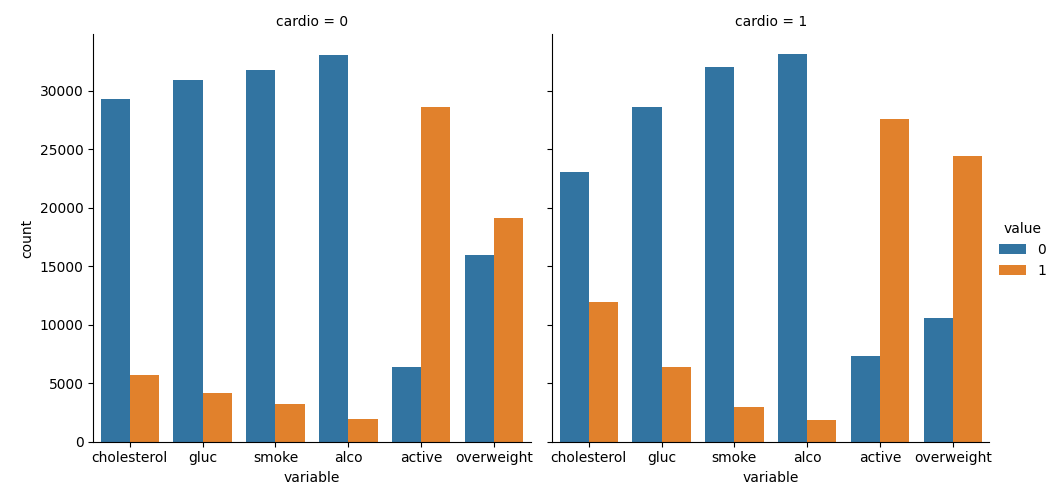
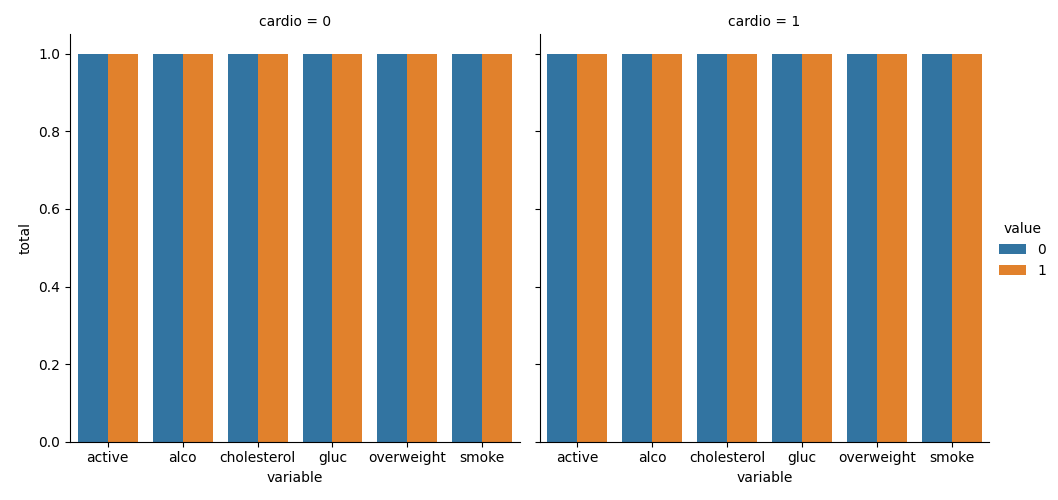
passed test for catplot

diff --git a/medical_data_visualizer.py b/medical_data_visualizer.py
@@ -28,11 +28,11 @@ def draw_cat_plot():
 
 
     # Group and reformat the data to split it by 'cardio'. Show the counts of each feature. You will have to rename one of the columns for the catplot to work correctly.)
-    
+    df_grouped = df_long.groupby(['cardio', 'variable', 'value']).size().reset_index(name='total')
 
     # Draw the catplot with 'sns.catplot()'
-
-    df_cat = sns.catplot(x = 'variable', hue='value', col='cardio', data = df_long, kind = 'count')
+    df_cat = sns.catplot(x = 'variable', hue='value', col='cardio', data = df_grouped, kind = 'count')
+    df_cat.set_ylabels('total')
 
     # Get the figure for the output
     fig = df_cat.fig
